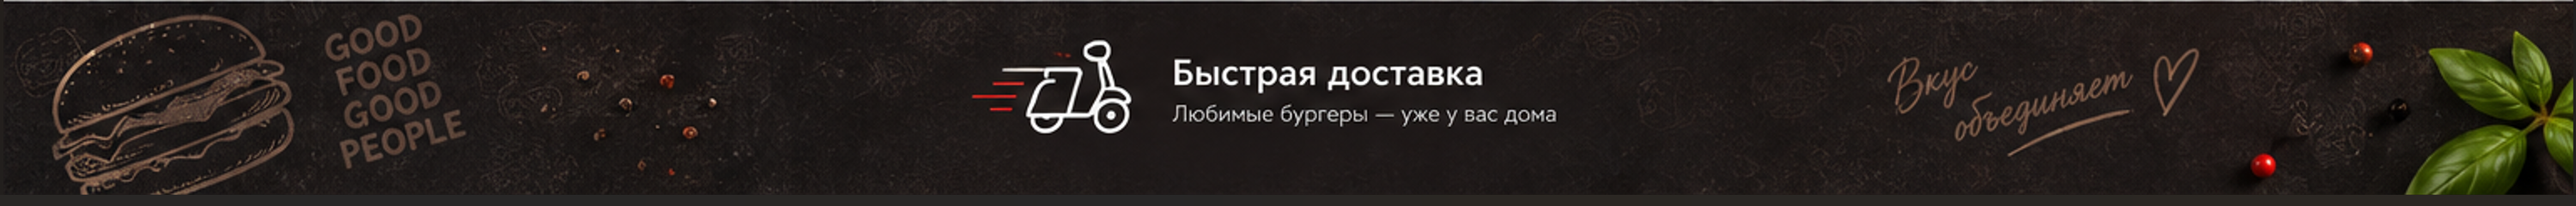
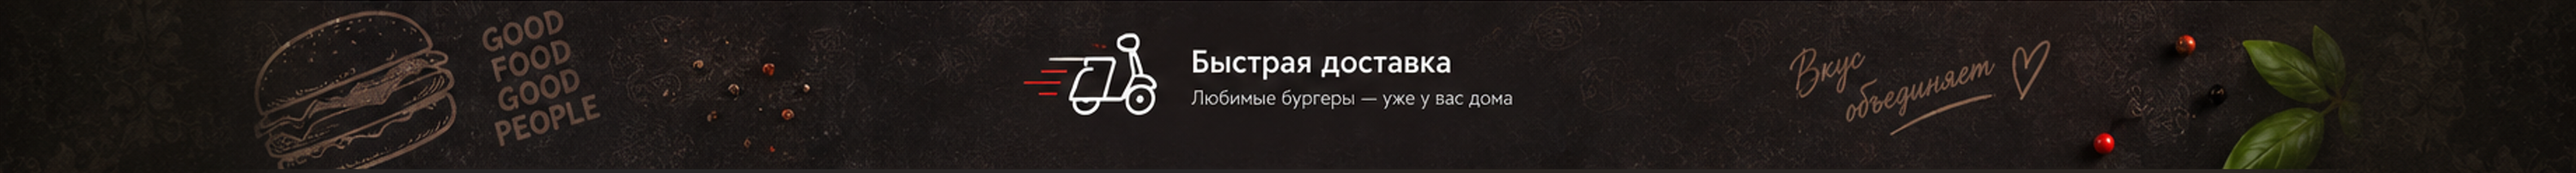
Improve responsive hero navigation and footer

diff --git a/style.css b/style.css
@@ -51,13 +51,13 @@ a {
     flex-direction: column;
     align-items: center;
     width: 100%;
-    max-width: 1280px;
+    max-width: 1780px;
     margin-right: auto;
     margin-left: auto;
     padding-top: 16px;
-    padding-right: 20px;
+    padding-right: 32px;
     padding-bottom: 16px;
-    padding-left: 20px;
+    padding-left: 32px;
 }
 
 .navigation__list {
@@ -201,6 +201,7 @@ a {
 }
 
 .button--hero {
+    display: none;
     width: 100%;
     max-width: 268px;
     min-height: 58px;
@@ -254,7 +255,7 @@ a {
 
 .menu__container {
     width: 100%;
-    max-width: 1280px;
+    max-width: 1780px;
     margin-right: auto;
     margin-left: auto;
     padding-top: 32px;
@@ -405,6 +406,10 @@ a {
 }
 
 @media (min-width: 577px) {
+    .button--hero {
+        display: inline-flex;
+    }
+
     .navigation__list {
         display: flex;
     }
@@ -424,6 +429,58 @@ a {
         width: 105px;
         font-size: 13px;
         text-align: left;
+    }
+
+    .hero__content {
+        position: absolute;
+        right: auto;
+        bottom: 0.91vw;
+        left: 50%;
+        z-index: 2;
+        display: block;
+        width: 75.45vw;
+        max-width: none;
+        margin-right: auto;
+        margin-left: auto;
+        padding-top: 0;
+        padding-right: 0;
+        padding-bottom: 0;
+        padding-left: 0;
+        background-color: transparent;
+        transform: translateX(-50%);
+    }
+
+    .button--hero {
+        width: 10.52vw;
+        max-width: none;
+        min-height: 2.65vw;
+        padding-top: 0.64vw;
+        padding-right: 1.28vw;
+        padding-bottom: 0.64vw;
+        padding-left: 1.28vw;
+        font-size: 0.87vw;
+    }
+
+    .advantages {
+        grid-template-columns: auto auto auto;
+        width: auto;
+        max-width: 21.03vw;
+        margin-top: 0.64vw;
+        column-gap: 1.01vw;
+    }
+
+    .advantage {
+        column-gap: 0.46vw;
+    }
+
+    .advantage__icon {
+        width: 3.57vw;
+        height: 3.57vw;
+    }
+
+    .advantage__text {
+        width: auto;
+        font-size: 0.55vw;
     }
 
     .menu__heading-row {
@@ -490,6 +547,7 @@ a {
     }
 
     .navigation__actions {
+        margin-left: auto;
         column-gap: 4px;
     }
 
@@ -540,15 +598,20 @@ a {
     }
 
     .navigation__inner {
+        position: relative;
         min-height: 96px;
-        padding-top: 20px;
-        padding-right: 18px;
-        padding-bottom: 20px;
+        padding-top: 2vw;
+        padding-right: 32px;
+        padding-bottom: 0;
         padding-left: 365px;
     }
 
     .navigation__list {
+        position: absolute;
+        top: calc(50% + 1vw);
+        left: 50%;
         column-gap: 34px;
+        transform: translate(-50%, -50%);
     }
 
     .navigation__actions {
@@ -559,35 +622,39 @@ a {
         min-width: 136px;
     }
 
+    .menu-card__title {
+        font-size: 23px;
+    }
+}
+
+@media (min-width: 2187px) {
     .hero__content {
-        position: absolute;
-        right: 0;
+        right: auto;
         bottom: 20px;
-        left: 0;
-        z-index: 2;
-        display: block;
-        width: 100%;
-        max-width: 1280px;
-        margin-right: auto;
-        margin-left: auto;
-        padding-top: 0;
-        padding-right: 0;
-        padding-bottom: 0;
-        padding-left: 0;
-        background-color: transparent;
+        left: 50%;
+        width: 1650px;
+        max-width: 1650px;
+        transform: translateX(-50%);
     }
 
     .button--hero {
         width: 230px;
         min-height: 58px;
+        padding-top: 14px;
+        padding-right: 28px;
+        padding-bottom: 14px;
+        padding-left: 28px;
+        font-size: 19px;
     }
 
     .advantages {
-        grid-template-columns: auto auto auto;
-        width: auto;
         max-width: 460px;
         margin-top: 14px;
         column-gap: 22px;
+    }
+
+    .advantage {
+        column-gap: 10px;
     }
 
     .advantage__icon {
@@ -596,11 +663,6 @@ a {
     }
 
     .advantage__text {
-        width: auto;
         font-size: 12px;
-    }
-
-    .menu-card__title {
-        font-size: 23px;
     }
 }
